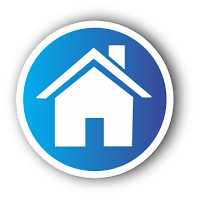
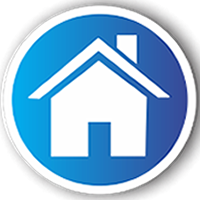
images updated

diff --git a/drupal_site_7/themes/nexus/template.php b/drupal_site_7/themes/nexus/template.php
@@ -137,7 +137,7 @@ function nexus_menu_link__menu_external_links(array $variables) {
   $output = l($element['#title'], $element['#href'], $element['#localized_options']);
   return '<li' . drupal_attributes($element['#attributes']) . '>' . $output . $sub_menu . "</li>\n";*/
   if($element['#title'] == 'Home'){
-     $element['#title'] = '<img height="30px" width="35px" src="'.drupal_get_path('theme', 'nexus').'/images/home.png"/>'; 
+     $element['#title'] = '<img height="25px" src="'.drupal_get_path('theme', 'nexus').'/images/home.png"/>'; 
   }
     if($element['#title'] == 'Mail'){
      $element['#title'] = '<img height="25px" src="'.drupal_get_path('theme', 'nexus').'/images/mail.png"/>'; 
